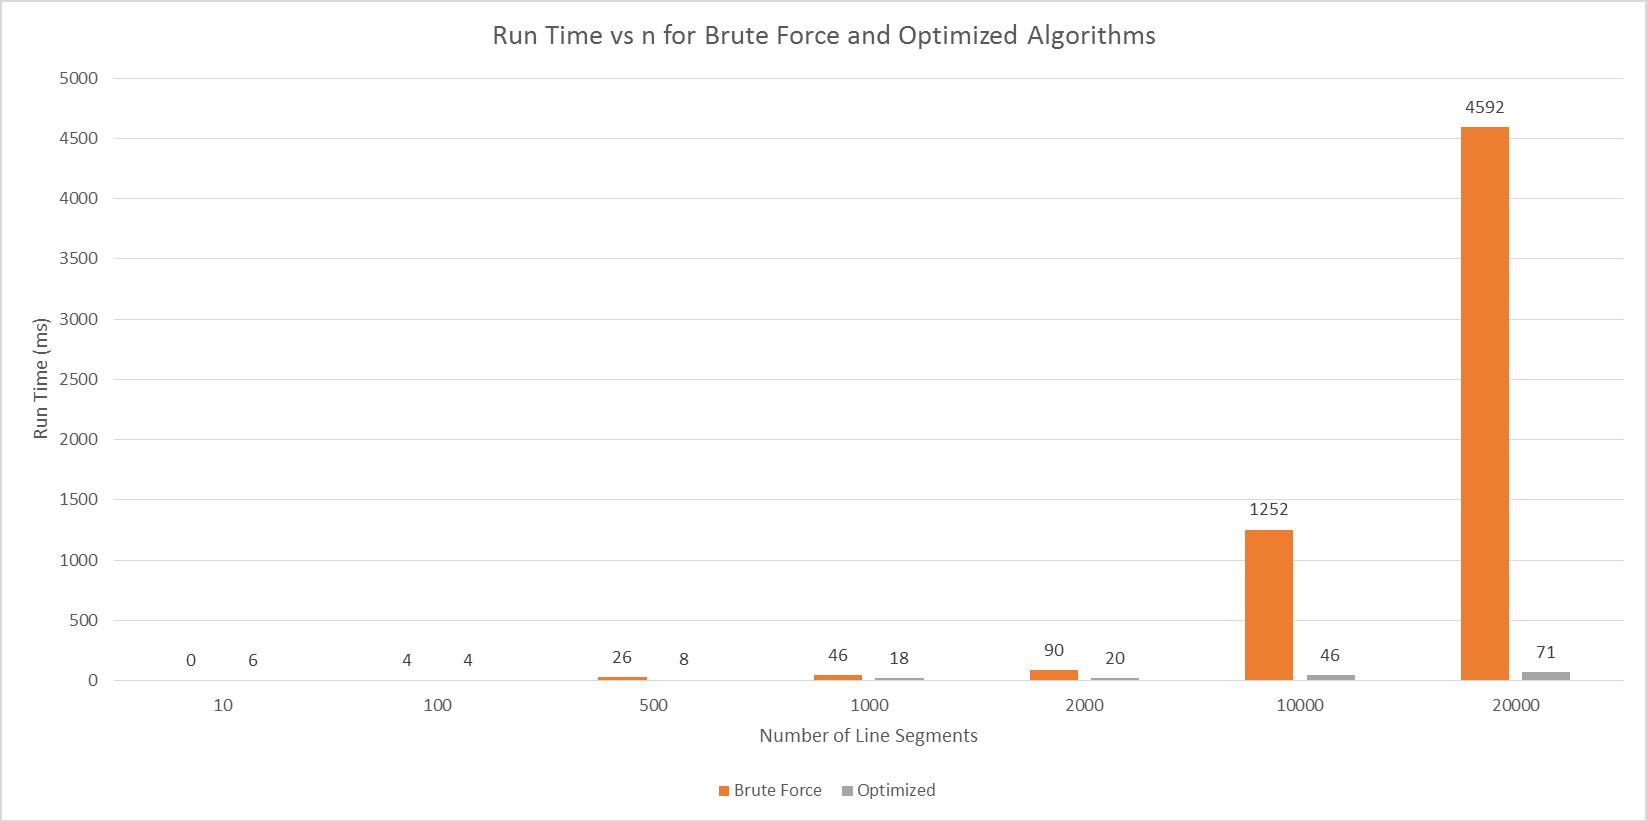
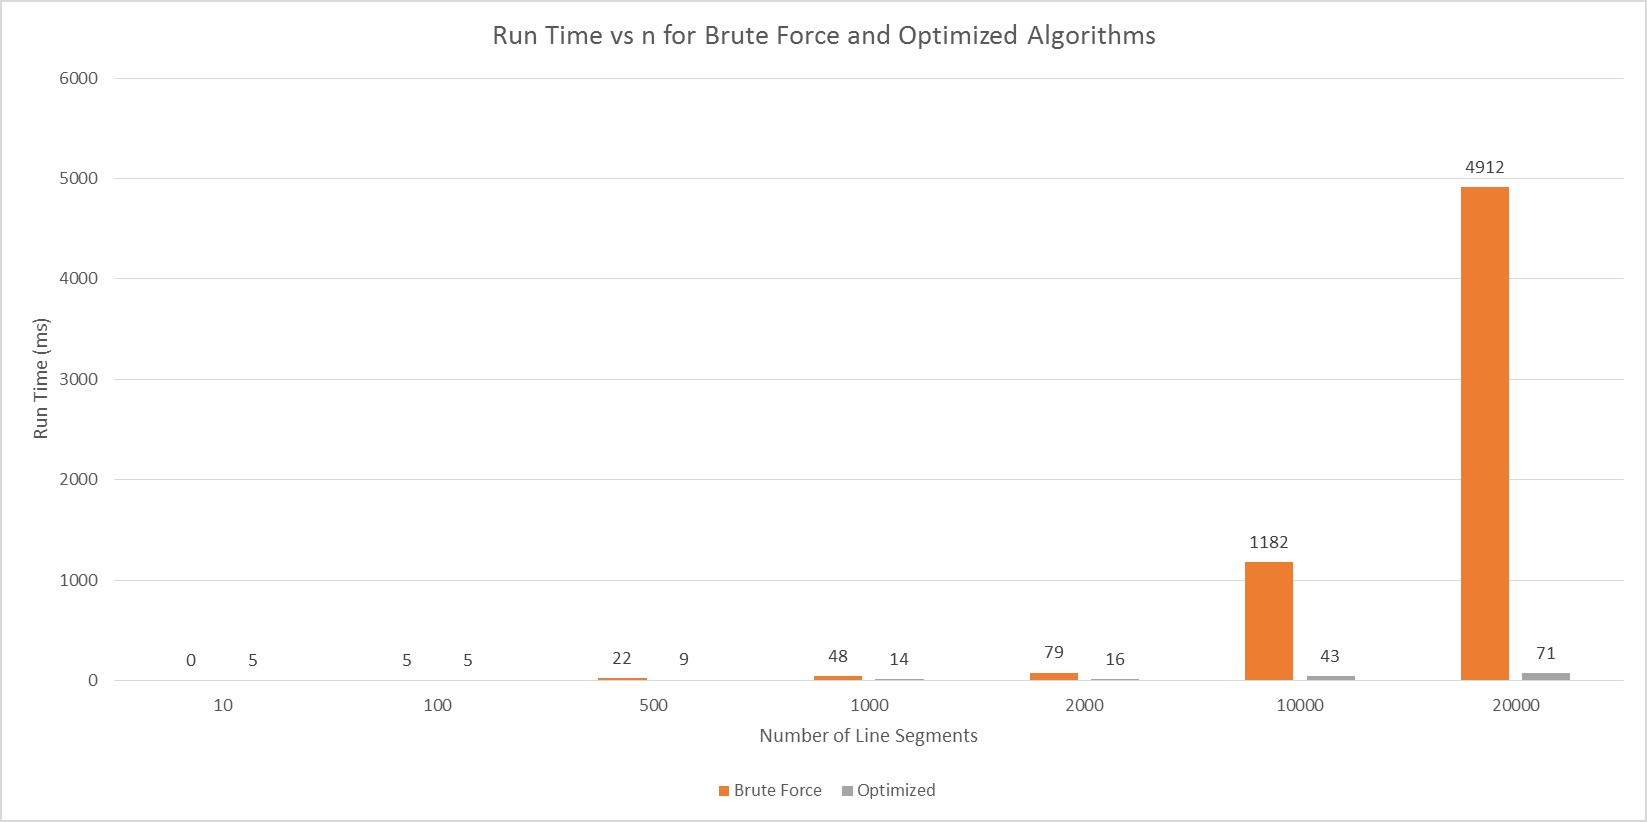
New plot and Readme.

diff --git a/README.md b/README.md
@@ -13,13 +13,13 @@ The submission CS_4104_project.zip includes:
 - run.bat
 - run.sh
 - submission_output
-	- output_file_1449593114750
-	- output_file_1449593114862
-	- output_file_1449593114945
-	- output_file_1449593115075
-	- output_file_1449593115224
-	- output_file_1449593115437
-	- output_file_1449593116823
+	- output_file_1449636254885
+	- output_file_1449636254977
+	- output_file_1449636255086
+	- output_file_1449636255219
+	- output_file_1449636255372
+	- output_file_1449636255545
+	- output_file_1449636256885
 
 "APLSIP.jar" is executable, and contains all source code and compiled machine code.
 "plot.jpg" shows the run times of the tests for the seven included files.
@@ -61,6 +61,5 @@ DESCRIPTION OF MAJOR CLASSES
 -------------------------------------------------------------------------------
 IMPLEMENTATION NOTES
 
-All lines have an endpoint in a 100,000x100,000 grid. The spec lists upper bounds of 1,000,000 but we found that this large area rarely resulted in any intersections for the given n values.
 We utilized Java's built-in Collections.sort() method which uses a modified merge sort algorithm which guarantees time complexity of O(n log(n)) and space complexity of O(n) in the worst case.
 We used our own implementation of a BST, which has been thoroughly tested.
